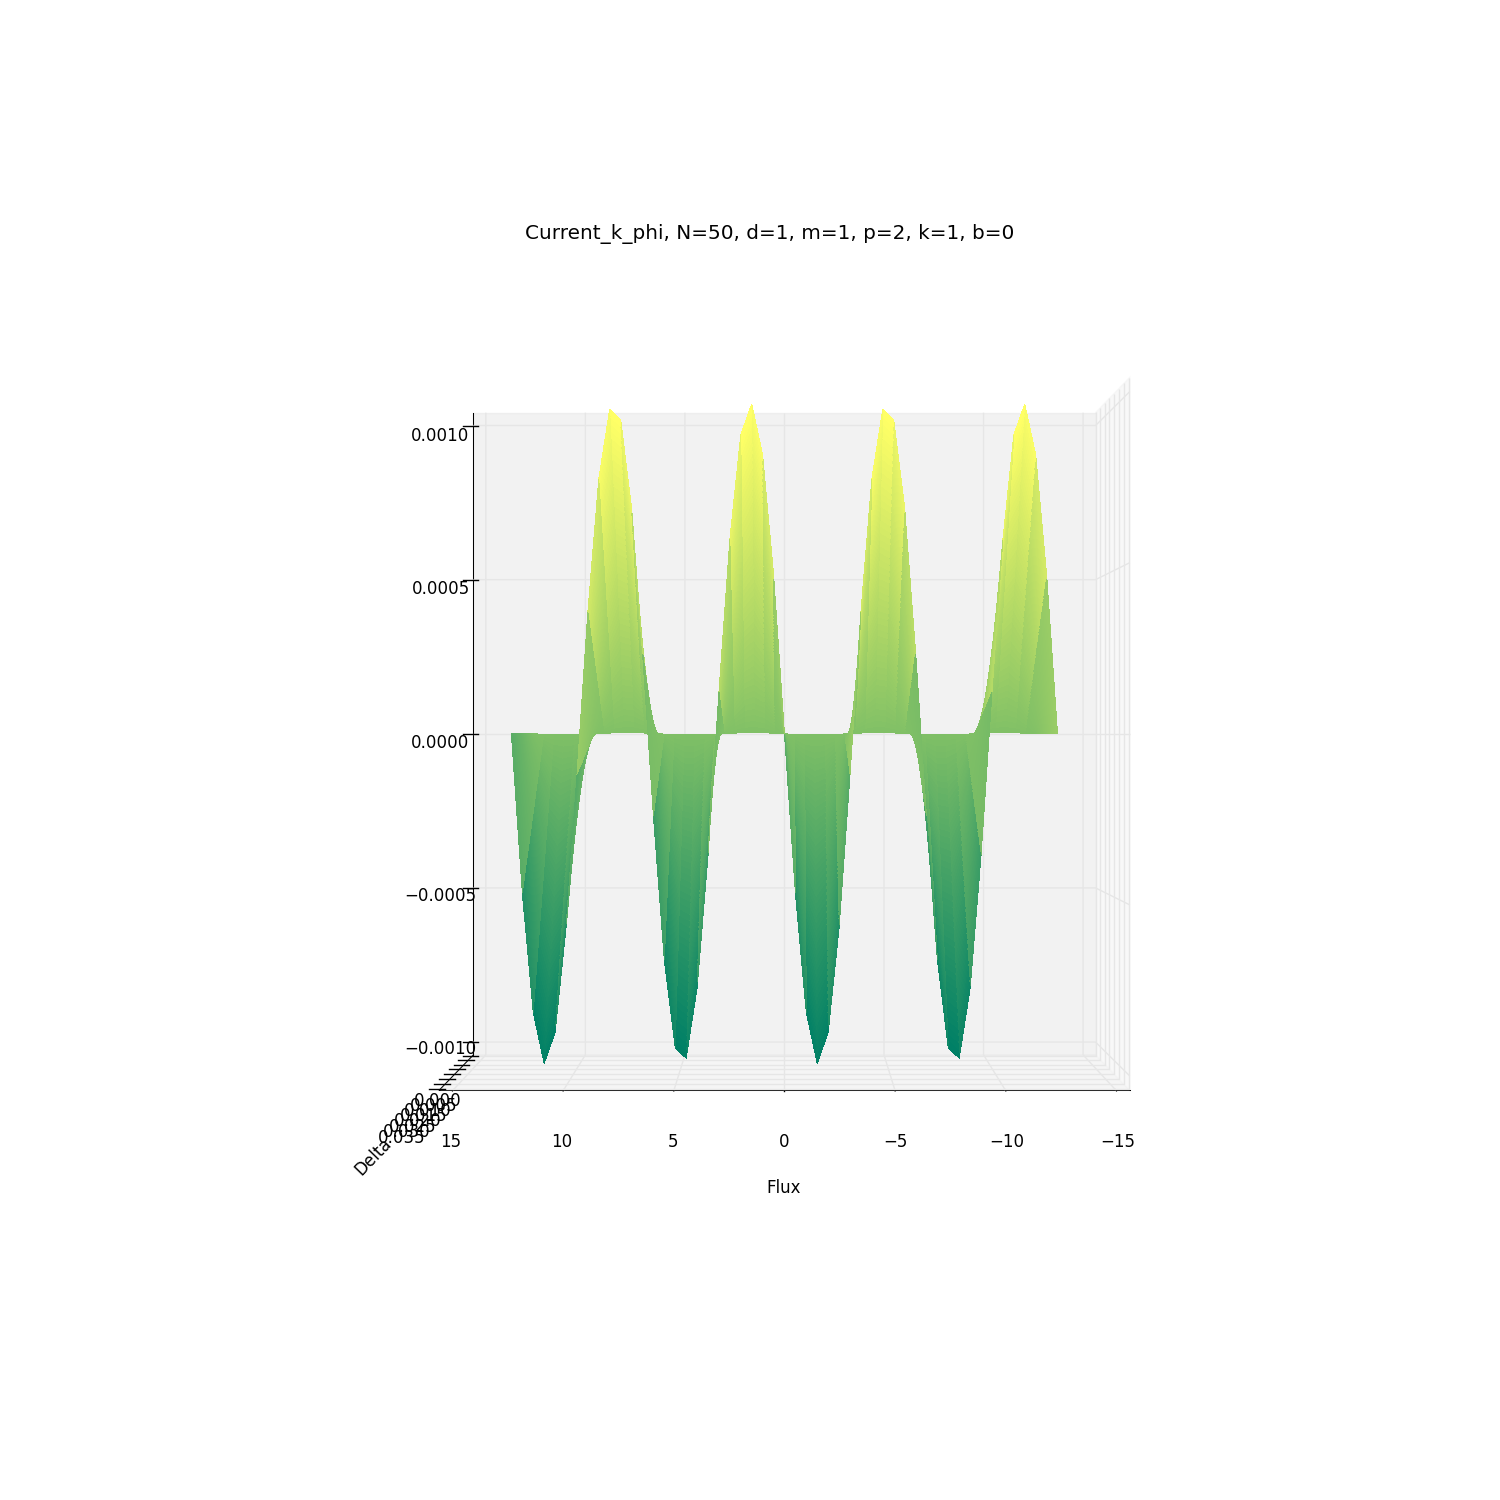
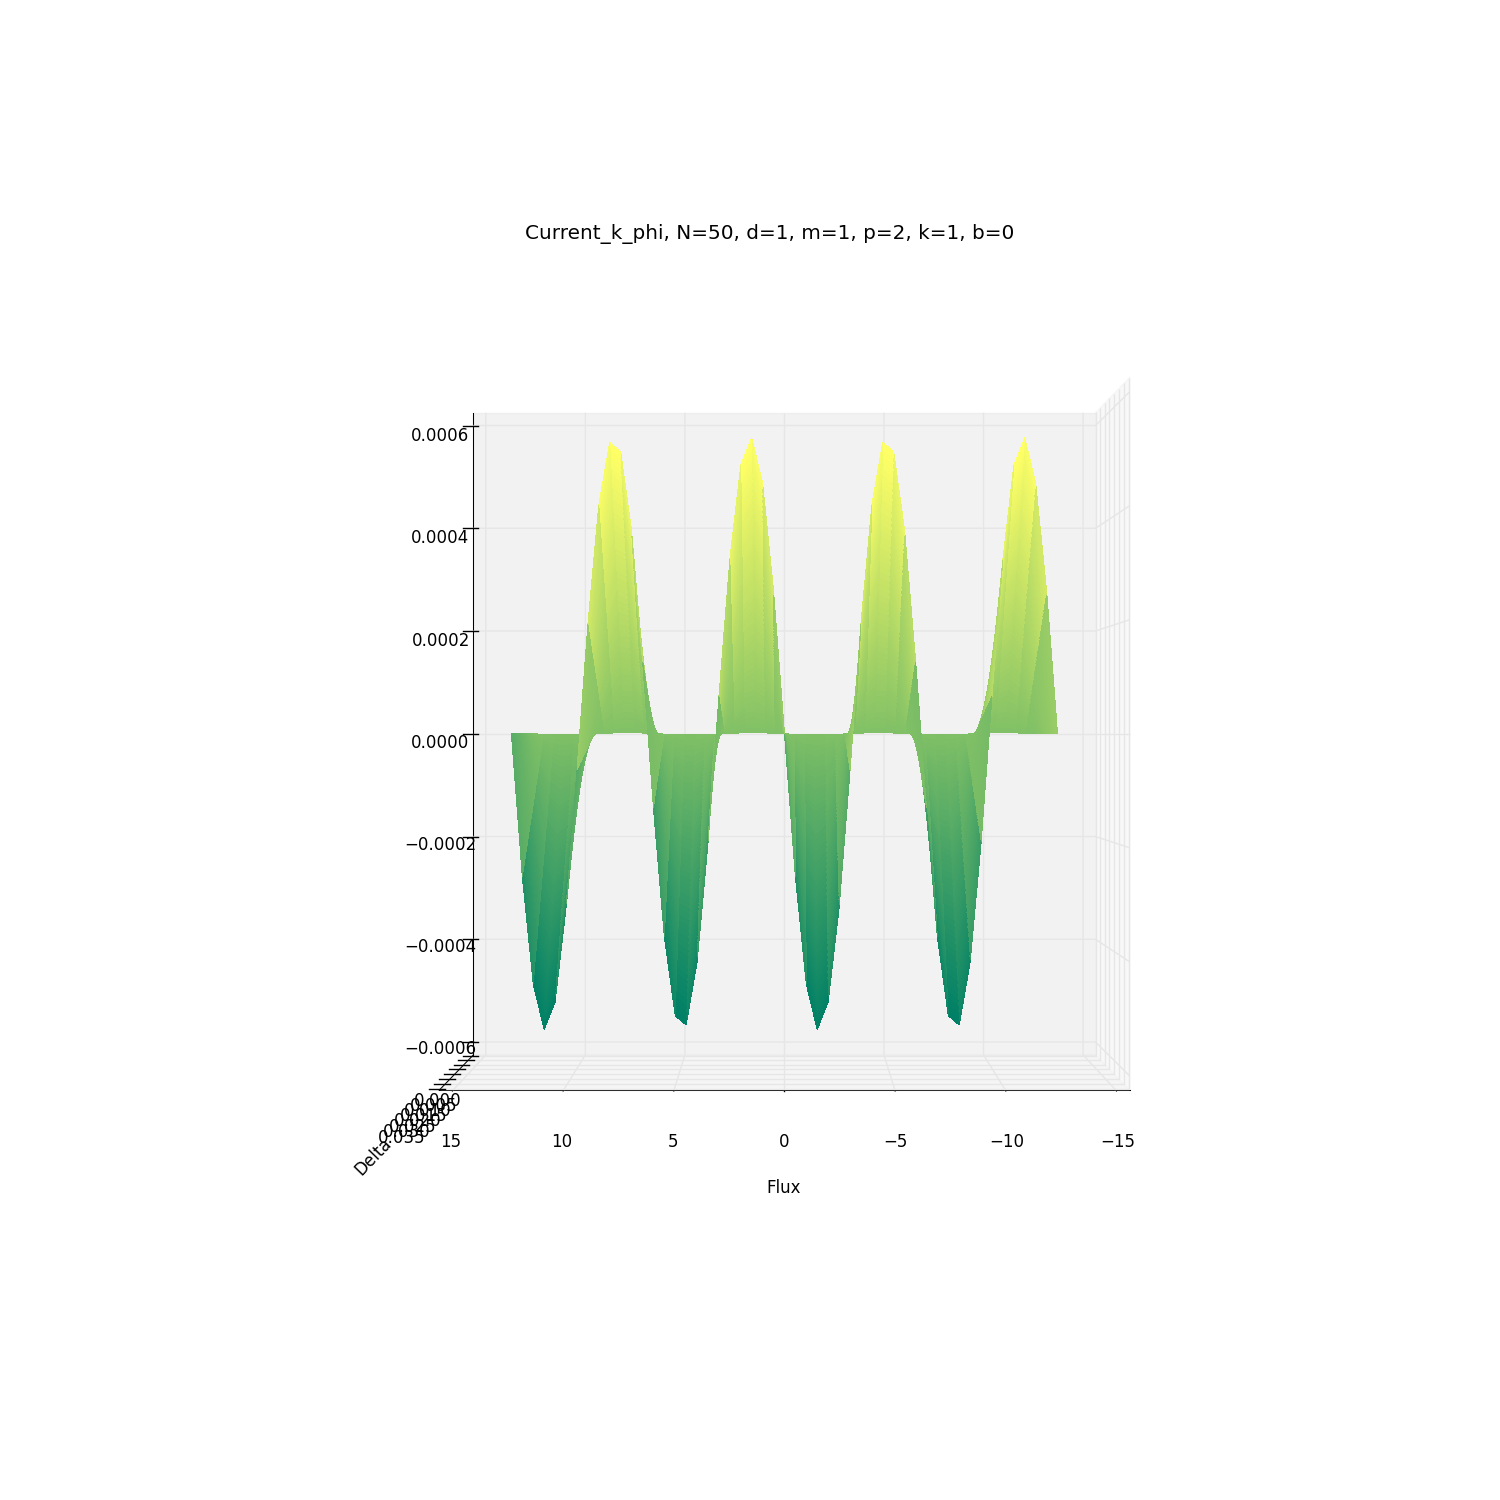
I know the angles for *p5.png are kind of crappy, but I have to release this computer.

diff --git a/josephson.py b/josephson.py
@@ -145,7 +145,7 @@ else:
 if mechanism == 0: #constant rate 
 	tunnel = lambda kk, pp: 1.0 * Fermi(kk, pp)
 elif mechanism == 1: #A slice of k-space.
-	tunnel = lambda kk, pp:  Heaviside(np.pi/2.-pp) * Fermi(kk, pp)
+	tunnel = lambda kk, pp:  Heaviside(np.pi/4.-pp) * Fermi(kk, pp)
 else:
 	raise Exception("Unknown tunnel function.") 
 #Energies.
